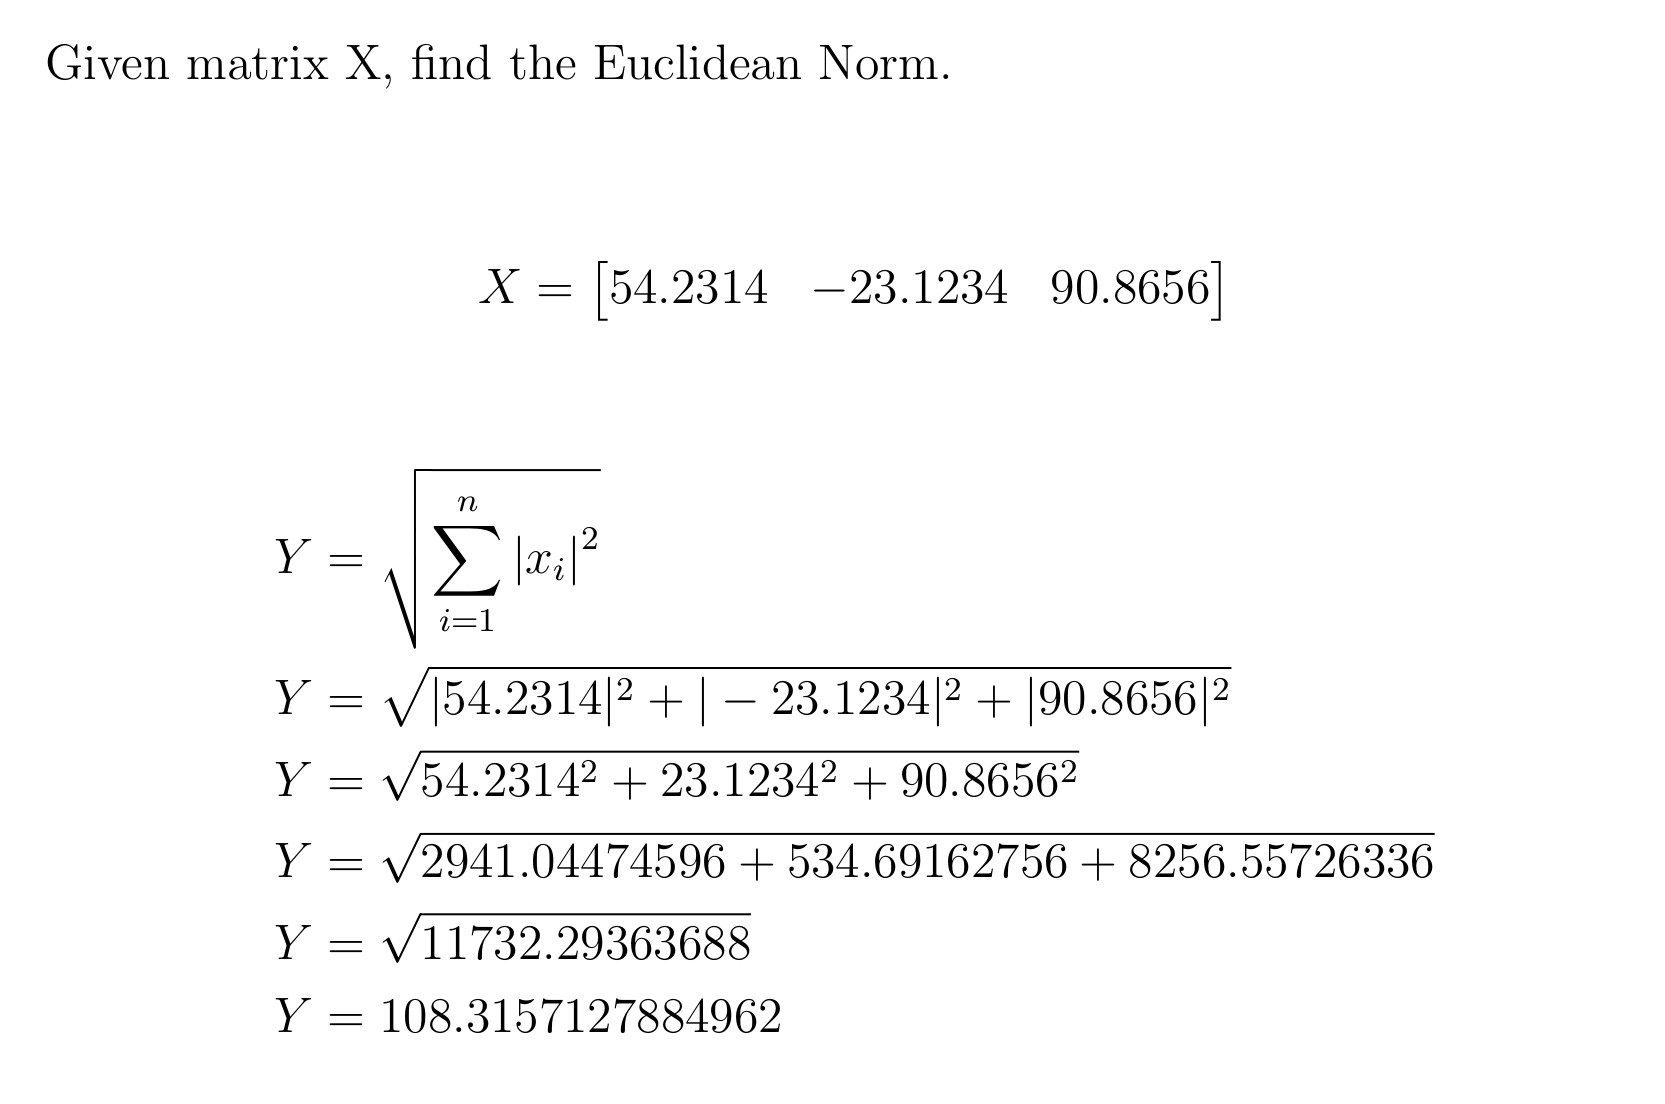
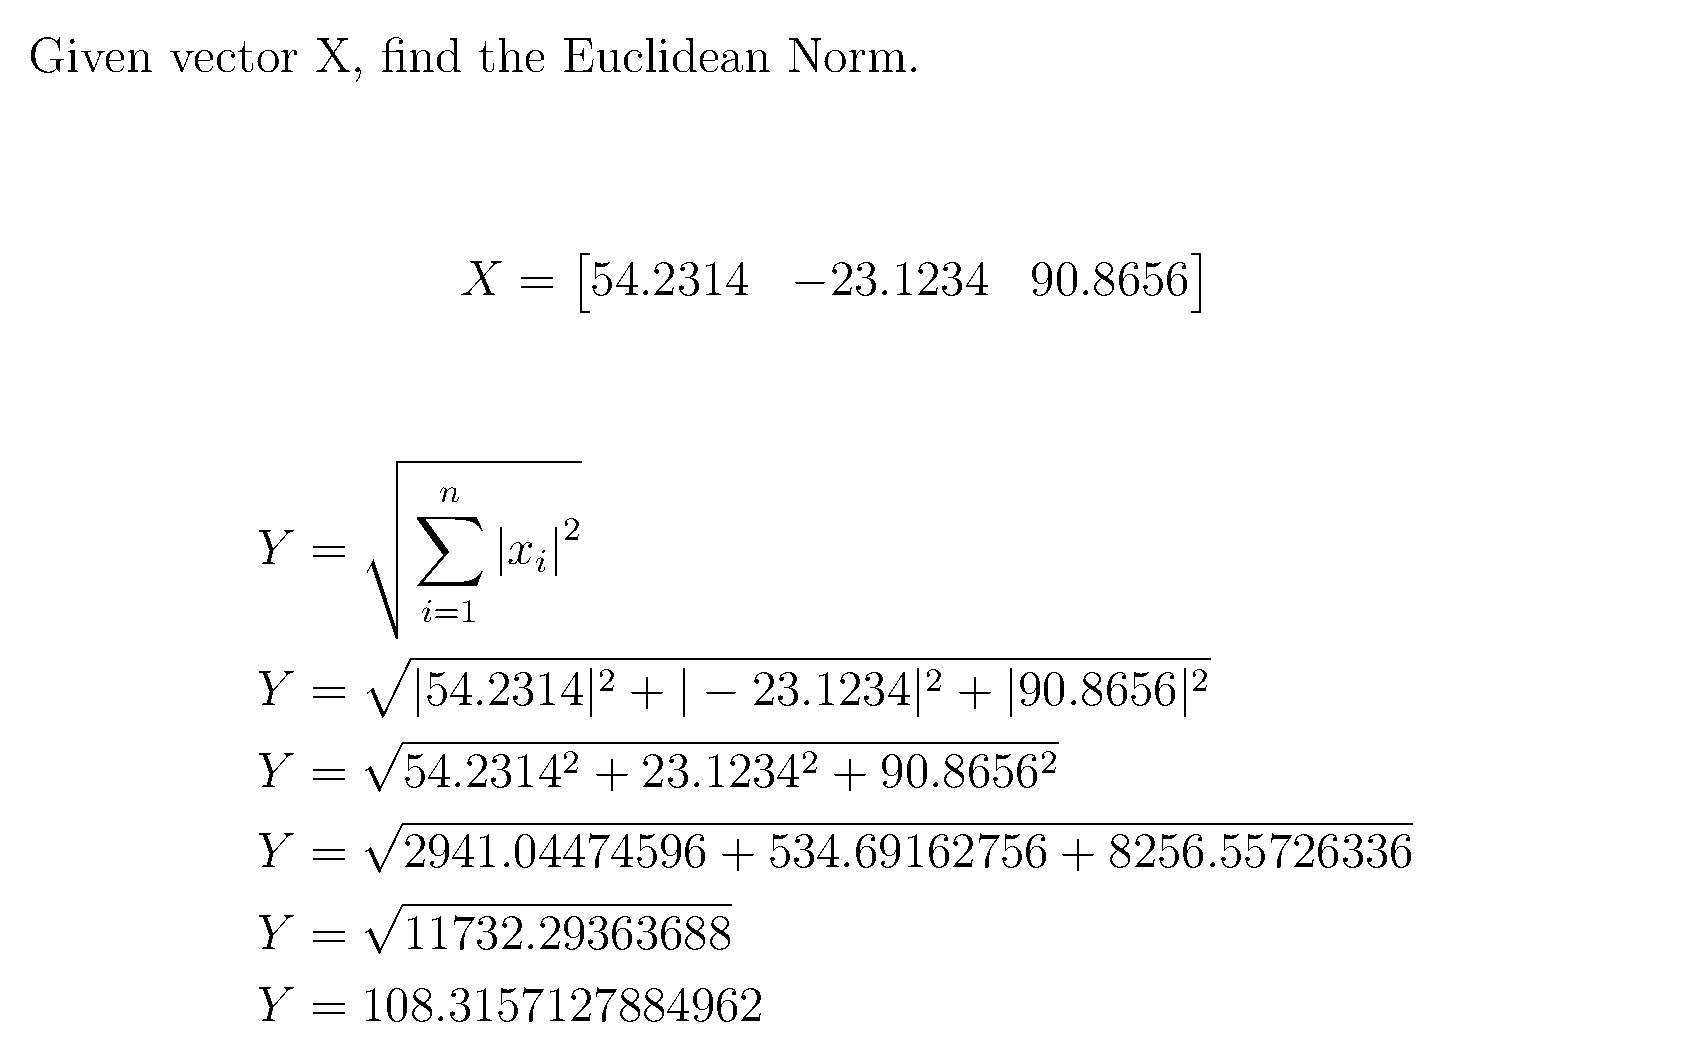
Updates

diff --git a/euclidean_norm/doc/formula.tex b/euclidean_norm/doc/formula.tex
@@ -14,7 +14,7 @@
 \begin{document}
 
     \begin{flushleft}
-        Given matrix X, find the Euclidean Norm.
+        Given vector X, find the Euclidean Norm.
     \end{flushleft}
 
     \begin{flalign*}
